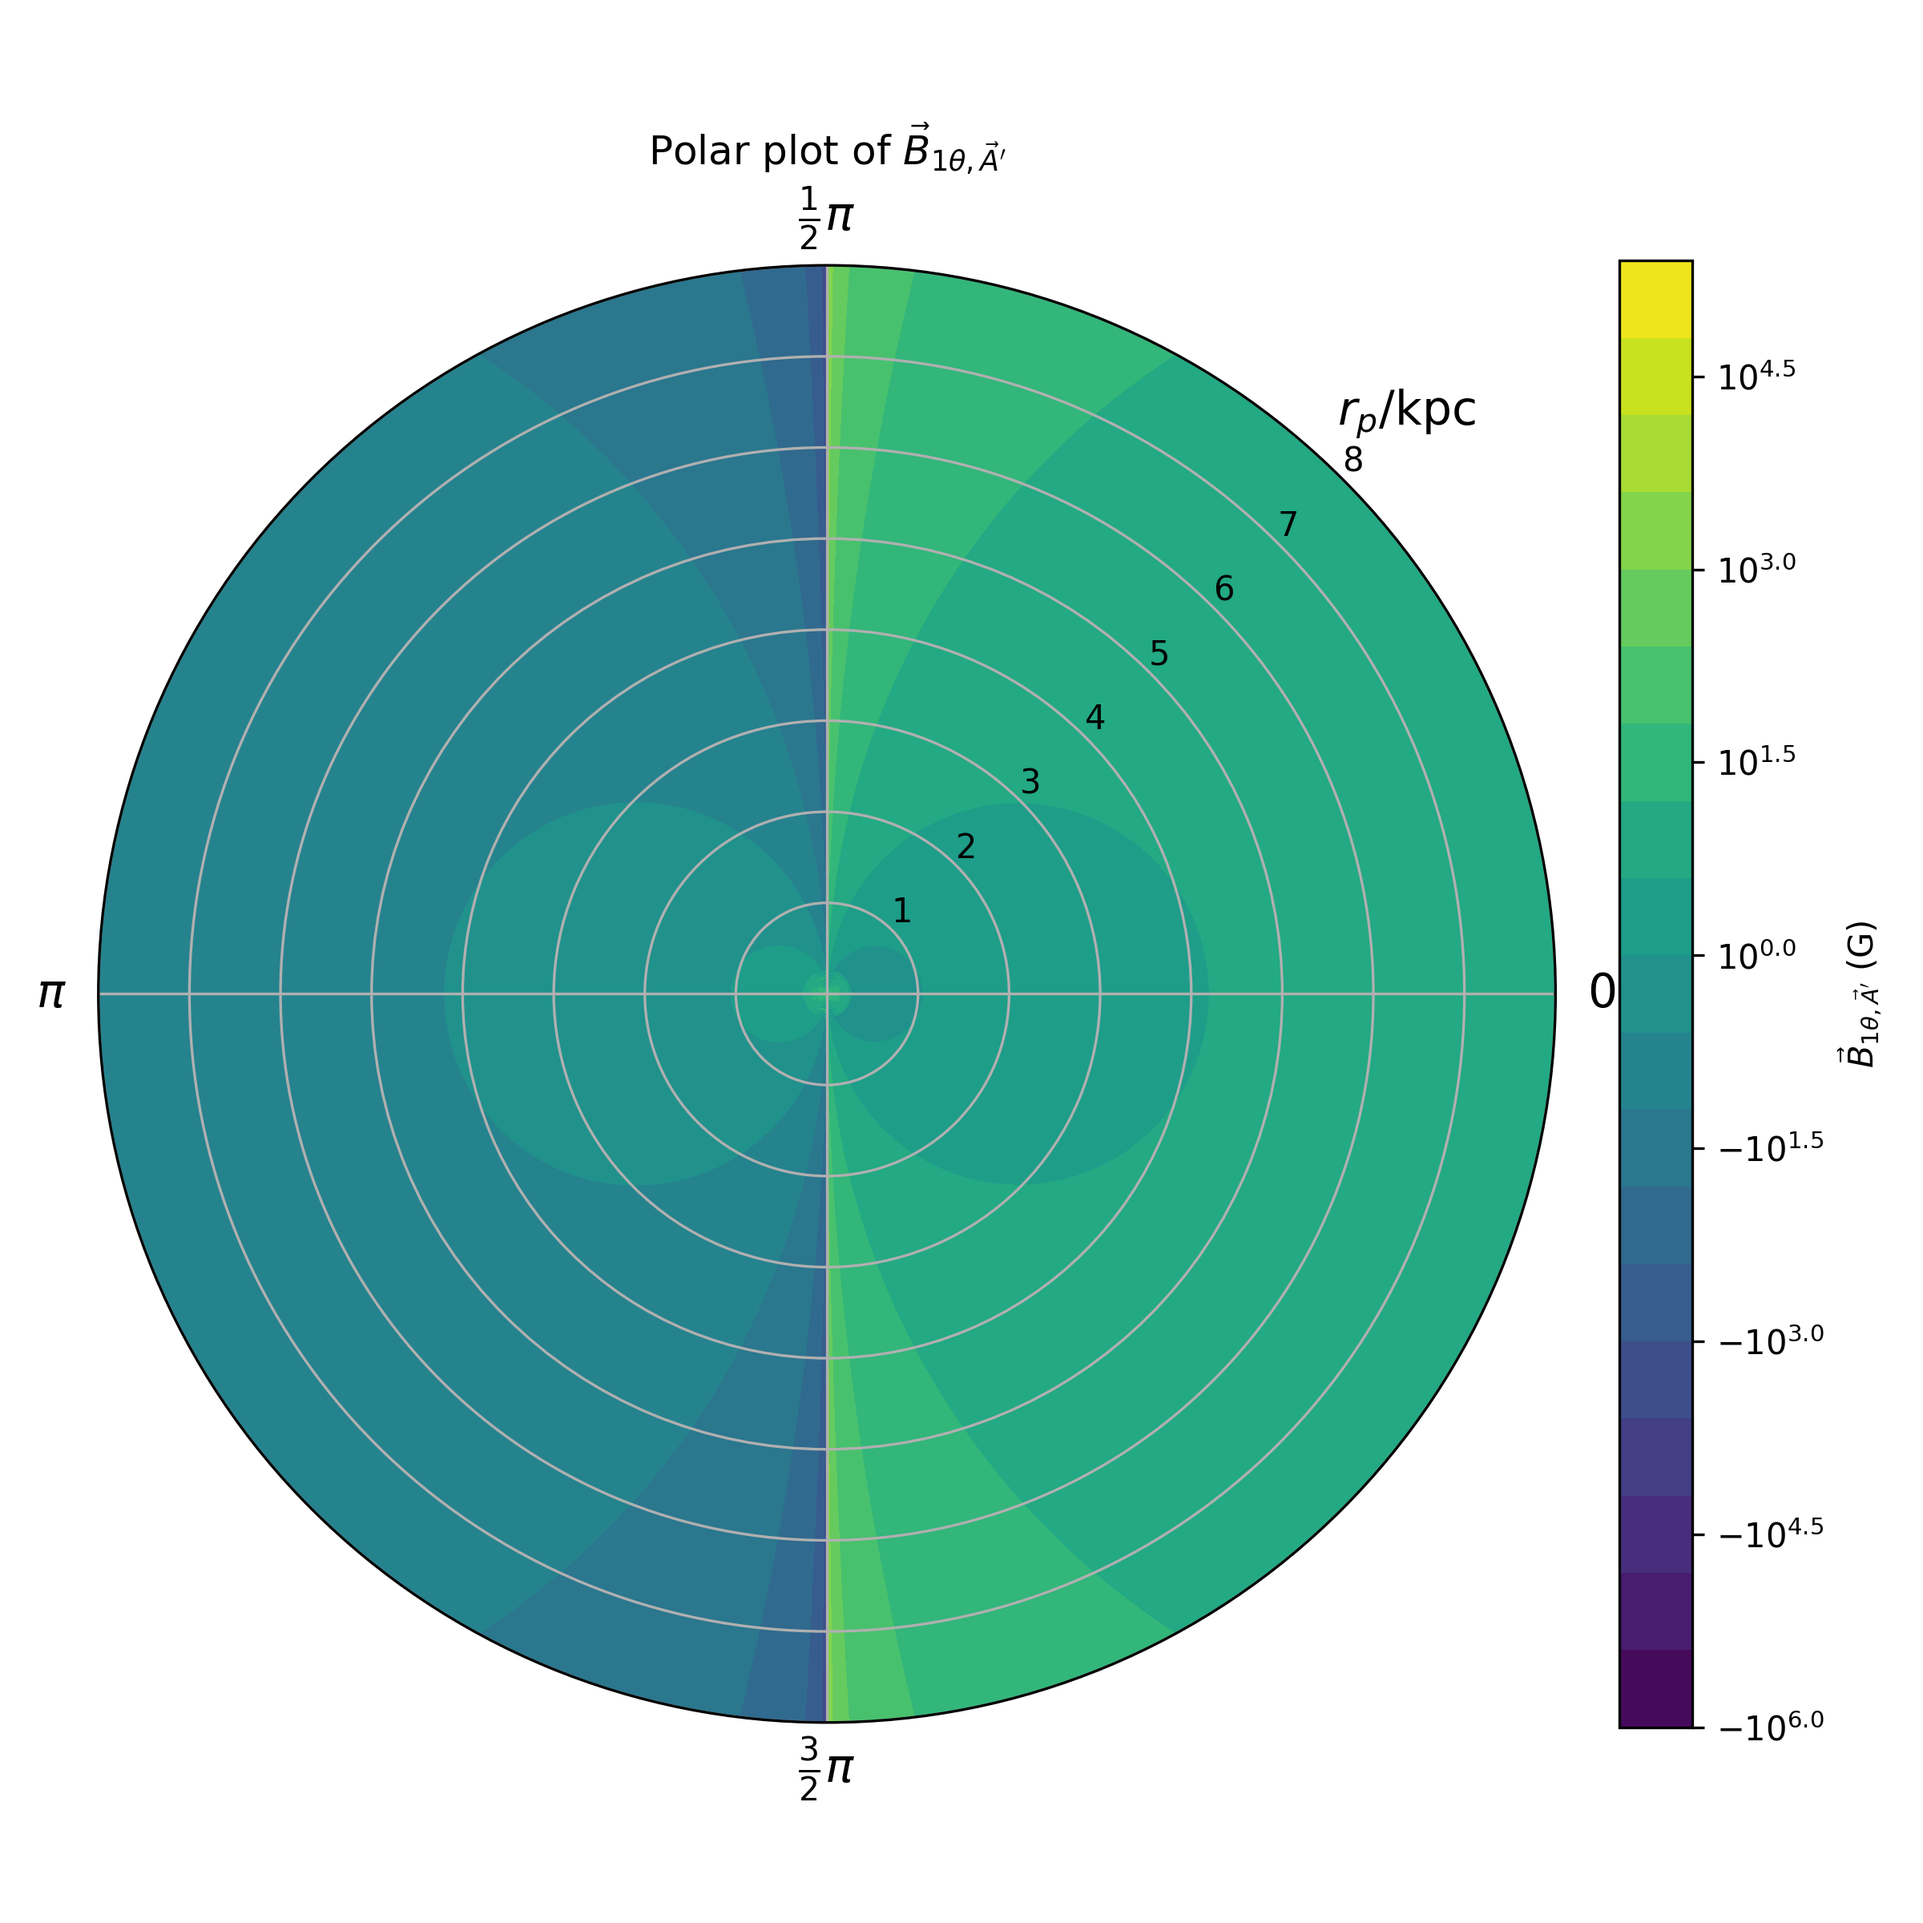
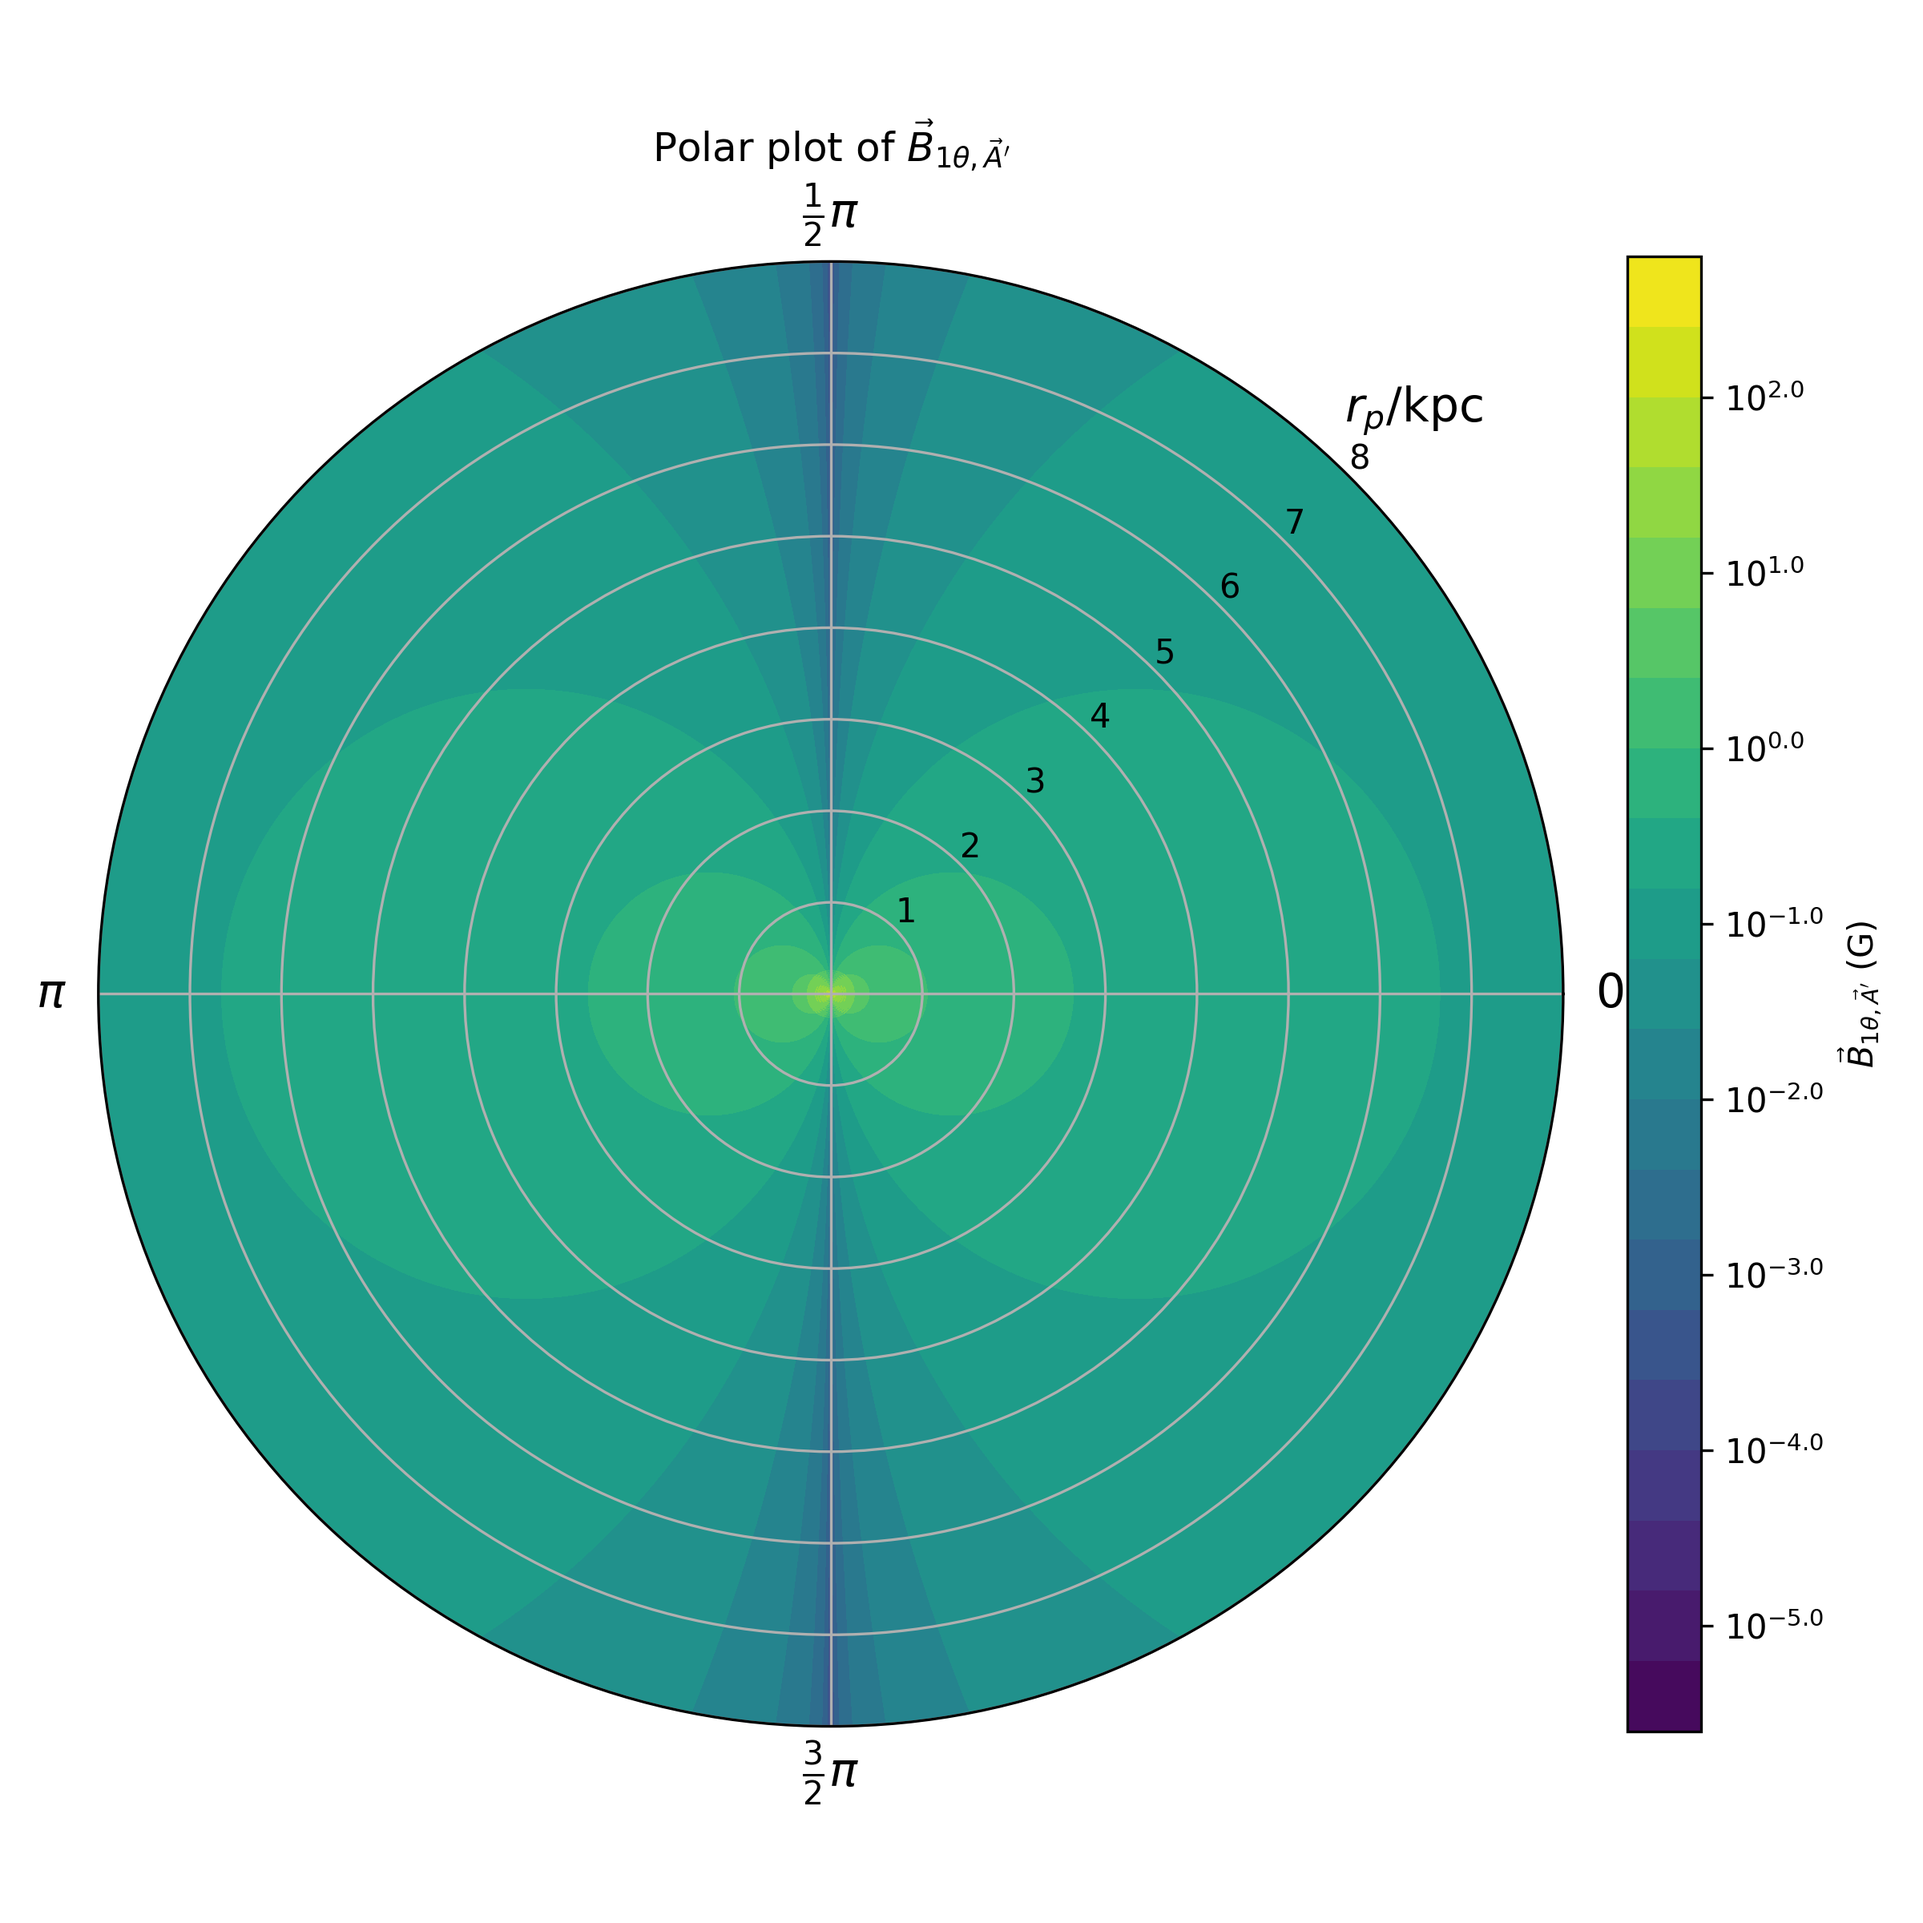
In progress

diff --git a/zeeman.py b/zeeman.py
@@ -485,18 +485,10 @@ def log_tick_formatter(value, position=None, logdp=0):
     """
 
     if logdp == 0:
-        if value < 0:
-            return f"$-10^{{{int(-value)}}}$"
-        
-        else:
-            return f"$10^{{{int(value)}}}$"
+        return f"$10^{{{int(value)}}}$"
     
     else:
-        if value < 0:
-            return f"$-10^{{{-value:.{logdp}f}}}$"
-        
-        else:
-            return f"$10^{{{value:.{logdp}f}}}$"
+        return f"$10^{{{value:.{logdp}f}}}$"
 
 # Plot the 2D data
 def plot2D_data(xs, ys, zs, xlabel, ylabel, zlabel, title, figure_name, plotstyle="contourf", levels=None, xlog=False, ylog=False, zlog=False, logdp=0, save=False):
@@ -770,23 +762,25 @@ def main():
         m_as, fs = np.meshgrid(m_as, fs)
         m_Ds, epsilons = np.meshgrid(m_Ds, epsilons)
         B1params_a = calculate_B1("flat", "axion", 0, m_as, fs, epsilon, 8000 * pc_to_m * m_to_eVminus1, 0, 0, B_bar)[0]
-        B1params_d = calculate_B1("flat", "dark photon", 0, m_Ds, f, epsilons, 8000 * pc_to_m * m_to_eVminus1, 0, 0, B_bar)[0]
+        B1params_d = calculate_B1("flat", "dark photon", 0, m_Ds, f, epsilons, 8000 * pc_to_m * m_to_eVminus1, np.pi / 2, 0, B_bar)[0]
 
         # Plot B1 versus the parameter space
         plot2D_data(np.log10(m_as), np.log10(fs), np.log10(B1params_a / 1e-4), r"$m_a$ (eV)", r"$f_a$ (eV)", r"$|\vec{B}_{1, a}| (G)$", r"$|\vec{B}_{1, a}|$ across parameter space", "B1paramsaxion.png", xlog=True, ylog=True, zlog=True, save=True)
         plot2D_data(np.log10(m_Ds), np.log10(epsilons), np.log10(B1params_d / 1e-4), r"$m_D$ (eV)", r"$\varepsilon$", r"$|\vec{B}_{1, \vec{A}'}| (G)$", r"$|\vec{B}_{1, \vec{A}'}|$ across parameter space", "B1paramsdarkphoton.png", xlog=True, ylog=True, zlog=True, save=True)
 
-    # Polar coordinate plane
-    r_ps = np.linspace(0 * r_c, 8000 * pc_to_m * m_to_eVminus1, 2000)
-    phi_ps = np.linspace(0, 2 * np.pi, 2000)
-    r_ps, phi_ps = np.meshgrid(r_ps, phi_ps)
-    B1polar_d_mag, B1polar_d_x, B1polar_d_y, B1polar_d_z = calculate_B1("flat", "dark photon", 0, m_D, f, epsilon, r_ps, np.pi / 2, phi_ps, B_bar)
-    B1polar_d_mag = B1polar_d_mag
-    B1polar_d_theta = - B1polar_d_z
- 
-    # Plot B1 versus distance of measurement point from Galactic Centre (r_p) and azimuthal displacement (phi_p)
-    plot2D_data(phi_ps, r_ps / (1000 * pc_to_m * m_to_eVminus1), np.log10(B1polar_d_mag / 1e-4), r"$\phi$ (rad)", r"$r_p/\mathrm{kpc}$", r"$|\vec{B}_{1, \vec{A}'}|$ (G)", r"Polar plot of $|\vec{B}_{1, \vec{A}'}|$", "B1polardarkphoton.png", plotstyle="contourf-polar", levels=20, zlog=True, logdp=1, save=True)
-    plot2D_data(phi_ps, r_ps / (1000 * pc_to_m * m_to_eVminus1), np.sign(B1polar_d_theta) * np.log10(np.abs(B1polar_d_theta) / 1e-4), r"$\phi$ (rad)", r"$r_p/\mathrm{kpc}$", r"$\vec{B}_{1\theta, \vec{A}'}$ (G)", r"Polar plot of $\vec{B}_{1\theta, \vec{A}'}$", "B1polardarkphotontheta.png", plotstyle="contourf-polar", levels=20, zlog=True, logdp=1, save=True)
+    plot_polar = False
+    if plot_polar:
+        # Polar coordinate plane
+        r_ps = np.linspace(0 * r_c, 8000 * pc_to_m * m_to_eVminus1, 2000)
+        phi_ps = np.linspace(0, 2 * np.pi, 2000)
+        r_ps, phi_ps = np.meshgrid(r_ps, phi_ps)
+        B1polar_d_mag, B1polar_d_x, B1polar_d_y, B1polar_d_z = calculate_B1("flat", "dark photon", 0, m_D, f, epsilon, r_ps, np.pi / 2, phi_ps, B_bar)
+        B1polar_d_mag = B1polar_d_mag
+        B1polar_d_theta = - B1polar_d_z
+    
+        # Plot B1 versus distance of measurement point from Galactic Centre (r_p) and azimuthal displacement (phi_p)
+        plot2D_data(phi_ps, r_ps / (1000 * pc_to_m * m_to_eVminus1), np.log10(B1polar_d_mag / 1e-4), r"$\phi$ (rad)", r"$r_p/\mathrm{kpc}$", r"$|\vec{B}_{1, \vec{A}'}|$ (G)", r"Polar plot of $|\vec{B}_{1, \vec{A}'}|$", "B1polardarkphoton.png", plotstyle="contourf-polar", levels=20, zlog=True, logdp=1, save=True)
+        plot2D_data(phi_ps, r_ps / (1000 * pc_to_m * m_to_eVminus1), np.log10(np.abs(B1polar_d_theta) / 1e-4), r"$\phi$ (rad)", r"$r_p/\mathrm{kpc}$", r"$\vec{B}_{1\theta, \vec{A}'}$ (G)", r"Polar plot of $\vec{B}_{1\theta, \vec{A}'}$", "B1polardarkphotontheta.png", plotstyle="contourf-polar", levels=20, zlog=True, logdp=1, save=True)
 
     # Calculate the period of oscillation
     period = 2 * np.pi / omega / s_to_eVminus1
@@ -829,9 +823,9 @@ def main():
         r_ps_res = np.linspace(1 * r_c, 1.5 * r_c, 10000)
         f, m_a, m_D = gen_params("flat")
         B1r_ps_a = np.array([calculate_B1("flat", "axion", 0, m_a, f, epsilon, r_p, 0, 0, B_bar)[0] for r_p in r_ps])
-        B1r_ps_d = np.array([calculate_B1("flat", "dark photon", 0, m_D, f, epsilon, r_p, 0, 0, B_bar)[0] for r_p in r_ps])
+        B1r_ps_d = np.array([calculate_B1("flat", "dark photon", 0, m_D, f, epsilon, r_p, np.pi / 2, 0, B_bar)[0] for r_p in r_ps])
         B1r_ps_a_res = np.array([calculate_B1("flat", "axion", 0, m_a, f, epsilon, r_p, 0, 0, B_bar)[0] for r_p in r_ps_res])
-        B1r_ps_d_res = np.array([calculate_B1("flat", "dark photon", 0, m_D, f, epsilon, r_p, 0, 0, B_bar)[0] for r_p in r_ps_res])
+        B1r_ps_d_res = np.array([calculate_B1("flat", "dark photon", 0, m_D, f, epsilon, r_p, np.pi / 2, 0, B_bar)[0] for r_p in r_ps_res])
 
         # Plot B1 versus r_p for axion
         plot_data(r_ps / (1000 * pc_to_m * m_to_eVminus1), B1r_ps_a / 1e-4, "", r"$r_p/\mathrm{kpc}$", r"$|\vec{B}_{1, a}|$ (G)", r"Radial profile of $|\vec{B}_{1, a}|$", f"B1vsrpflataxionm{m_a}.png", xlog=True, save=True)
